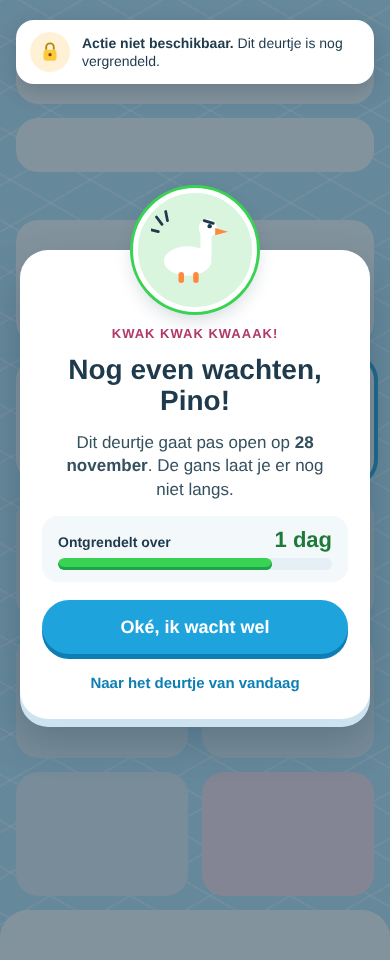
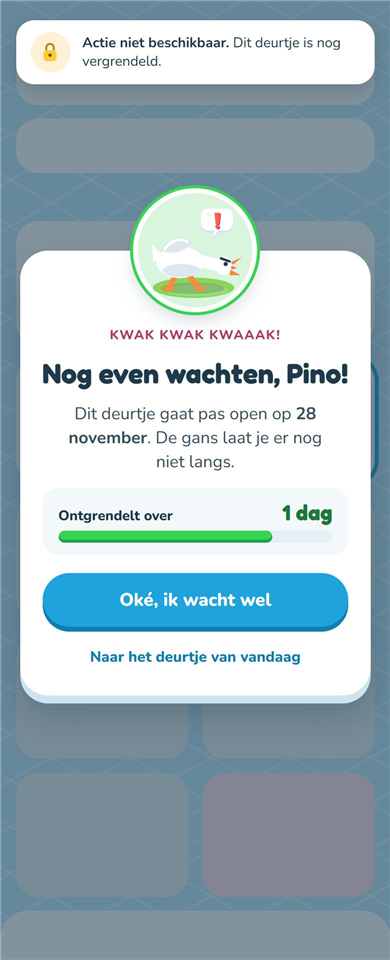
Update locked feedback screen

diff --git a/design/artboards/Vergrendeld.dc.html b/design/artboards/Vergrendeld.dc.html
@@ -52,12 +52,12 @@ a{color:#1E3A4C;text-decoration:none}a:hover{color:#0E7FB5}
 
     <!-- Gans als poortwachter -->
     <div style="width: 124px; height: 124px; border-radius: 50%; background: #D9F5DE; border: 5px solid #FFFFFF; box-shadow: 0 0 0 3px #39D353, 0 8px 18px rgba(30,58,76,0.18); box-sizing: border-box; display: flex; align-items: center; justify-content: center; margin-top: -62px;">
-      <svg class="ic" viewBox="0 0 48 48" width="88" height="88" role="img" aria-label="Gans die de weg verspert">
-        <ellipse cx="20" cy="30" rx="13" ry="8" fill="#FFFFFF"/><rect x="27" y="12" width="6" height="18" rx="3" fill="#FFFFFF"/><circle cx="31" cy="12" r="5" fill="#FFFFFF"/>
-        <path d="M35 12 l7 2 -7 2z" fill="#FF8A3D"/><circle cx="32" cy="11" r="1.2" fill="#1E3A4C"/>
-        <path d="M29 8 l5 1.5" stroke="#1E3A4C" stroke-width="1.5" stroke-linecap="round"/>
-        <rect x="15" y="36" width="3" height="6" rx="1.5" fill="#FF8A3D"/><rect x="23" y="36" width="3" height="6" rx="1.5" fill="#FF8A3D"/>
-        <path d="M6 10 l-3 -4 M9 8 l-1 -5 M4 14 l-4 -1" stroke="#1E3A4C" stroke-width="1.5" stroke-linecap="round"/>
+      <svg class="ic" viewBox="0 0 64 64" width="100" height="100" role="img" aria-label="Boze gans die de weg verspert">
+        <!-- besluit 224: boze gans uit spel 10 (s10-gans-boos) met uitroep-wolkje (bub-wolk + bub-uitroep), met de voeten op het gras -->
+        <ellipse cx="31" cy="56" rx="26" ry="6.5" fill="#8BD35A"/><ellipse cx="33" cy="57.5" rx="20" ry="4" fill="#9ADB7A"/>
+        <svg x="4" y="12" width="58" height="48" viewBox="0 0 48 40"><ellipse cx="22" cy="37" rx="17" ry="3" fill="rgba(30,58,76,0.18)"/><path d="M13 30 l-4 7 M20 30 l5 7" fill="none" stroke="#FF8A3D" stroke-width="3" stroke-linecap="round"/><path d="M6 36 h6 v2 h-6z M23 36 h6 v2 h-6z" fill="#FF8A3D"/><path d="M6 20 l-6 -7 l1 10z" fill="#FFFFFF"/><ellipse cx="15" cy="23" rx="12.5" ry="8.5" fill="#FFFFFF"/><ellipse cx="16" cy="27.5" rx="10" ry="3.5" fill="#DDE7EE"/><path d="M24 22 L37 25" fill="none" stroke="#FFFFFF" stroke-width="6.5" stroke-linecap="round"/><circle cx="38.5" cy="25" r="4.8" fill="#FFFFFF"/><path d="M5 17 q5 -11 17 -5 q-6 8 -17 5z" fill="#DDE7EE"/><path d="M7 16 q5 -7 12 -4" fill="none" stroke="#FFFFFF" stroke-width="1.5" stroke-linecap="round"/><path d="M42 23 l6 -2.5 l-4.5 4z" fill="#FF8A3D"/><path d="M42 27 l5.5 3 h-6z" fill="#FF8A3D"/><path d="M42.5 25 l3 1.2 l-3 0.6z" fill="#FF5E5B"/><circle cx="39.5" cy="24" r="1.1" fill="#1E3A4C"/><path d="M37 21 l4.5 1.6" fill="none" stroke="#1E3A4C" stroke-width="1.3" stroke-linecap="round"/></svg>
+        <svg x="35" y="4" width="22" height="22" viewBox="0 0 32 32"><path d="M8 3.8 h16 a7 7 0 0 1 7 7 v6.4 a7 7 0 0 1 -7 7 h-6.6 l-4.6 6 l0.6 -6 h-5.4 a7 7 0 0 1 -7 -7 v-6.4 a7 7 0 0 1 7 -7z" fill="#CDE4F0"/><path d="M8 2 h16 a7 7 0 0 1 7 7 v6.4 a7 7 0 0 1 -7 7 h-6.6 l-4.6 6 l0.6 -6 h-5.4 a7 7 0 0 1 -7 -7 v-6.4 a7 7 0 0 1 7 -7z" fill="#FFFFFF"/><ellipse cx="8.6" cy="7.4" rx="2.6" ry="1.5" fill="#EAF6FD"/></svg>
+        <svg x="35" y="4" width="22" height="22" viewBox="0 0 32 32"><path d="M14.4 6.4 h4 l-0.9 9.4 h-2.2z" fill="#C43B38" transform="translate(0.7 0.7)" stroke="#C43B38" stroke-width="1.2" stroke-linejoin="round"/><circle cx="17.1" cy="19.4" r="1.9" fill="#C43B38"/><path d="M14.4 6.4 h4 l-0.9 9.4 h-2.2z" fill="#FF5E5B" stroke="#FF5E5B" stroke-width="1.2" stroke-linejoin="round"/><circle cx="16.4" cy="18.7" r="1.9" fill="#FF5E5B"/></svg>
       </svg>
     </div>
 

diff --git a/advent/js/kalender.js b/advent/js/kalender.js
@@ -216,6 +216,21 @@ function zwaaiOpen(deur, verder) {
 
 /* ---------- Vergrendeld ---------- */
 
+/**
+ * De gans als poortwachter (besluit 224): de boze gans uit spel 10 (s10-gans-boos) met het rode uitroep-wolkje van de
+ * beeldfeedback (bub-wolk + bub-uitroep), met zijn voeten op een grasveldje. viewBox 64×64, getekend in de bol van 124 px.
+ * De voeten van s10-gans-boos staan op y 37 van 40; bij schaal 1,2 en y 12 is dat y 56,4: het midden van het gras.
+ */
+function gansWacht() {
+  return el('svg', { viewBox: '0 0 64 64', width: 100, height: 100, class: 'ic', role: 'img', 'aria-label': 'Boze gans die de weg verspert' }, [
+    el('ellipse', { cx: 31, cy: 56, rx: 26, ry: 6.5, fill: '#8BD35A' }),
+    el('ellipse', { cx: 33, cy: 57.5, rx: 20, ry: 4, fill: '#9ADB7A' }),
+    use('s10-gans-boos', 4, 12, 58, 48),
+    use('bub-wolk', 35, 4, 22, 22),
+    use('bub-uitroep', 35, 4, 22, 22),
+  ]);
+}
+
 export function toonVergrendeld(n) {
   const nu = datum.vandaag();
   const vandaagDag = datum.dagVanVandaag(nu);
@@ -229,7 +244,7 @@ export function toonVergrendeld(n) {
     label: 'Dit deurtje is nog vergrendeld',
     melding: { icoon: 'slot', kleur: '#FFF1D6', html: '<strong>Actie niet beschikbaar.</strong> Dit deurtje is nog vergrendeld.' },
     inhoud: [
-      h('div', { class: 'dialoog-bol', style: { background: '#D9F5DE' } }, [icoon('gans', 88, { label: 'Gans die de weg verspert' })]),
+      h('div', { class: 'dialoog-bol', style: { background: '#D9F5DE' } }, [gansWacht()]),
       h('div', { class: 'dialoog-sub', style: { color: 'var(--roze-schaduw)' } }, 'KWAK KWAK KWAAAK!'),
       h('h2', { class: 'kop dialoog-titel' }, 'Nog even wachten, Pino!'),
       h('p', { class: 'dialoog-tekst', html: `Dit deurtje gaat pas open op <strong>${datum.langeDatum(n)}</strong>. De gans laat je er nog niet langs.` }),

diff --git a/advent/js/ui/iconen.js b/advent/js/ui/iconen.js
@@ -34,7 +34,6 @@ const PADEN = {
   deur: '<rect x="8" y="6" width="32" height="36" rx="5" fill="#0E3D1C"/><rect x="14" y="12" width="20" height="24" rx="3" fill="#39D353"/><circle cx="29" cy="24" r="2.5" fill="#0E3D1C"/>',
   speel: '<path d="M14 8 L40 24 L14 40z" fill="currentColor"/>',
   telefoon: '<path d="M14 6 h8 l4 10 -6 4 c2 6 6 10 12 12 l4 -6 10 4 v8 c0 2 -2 4 -4 4 C22 42 6 26 6 10 c0 -2 2 -4 4 -4z" fill="currentColor"/>',
-  gans: '<ellipse cx="20" cy="30" rx="13" ry="8" fill="#FFFFFF"/><rect x="27" y="12" width="6" height="18" rx="3" fill="#FFFFFF"/><circle cx="31" cy="12" r="5" fill="#FFFFFF"/><path d="M35 12 l7 2 -7 2z" fill="#FF8A3D"/><circle cx="32" cy="11" r="1.2" fill="#1E3A4C"/><path d="M29 8 l5 1.5" stroke="#1E3A4C" stroke-width="1.5" stroke-linecap="round"/><rect x="15" y="36" width="3" height="6" rx="1.5" fill="#FF8A3D"/><rect x="23" y="36" width="3" height="6" rx="1.5" fill="#FF8A3D"/><path d="M6 10 l-3 -4 M9 8 l-1 -5 M4 14 l-4 -1" stroke="#1E3A4C" stroke-width="1.5" stroke-linecap="round"/>',
   gansKlein: '<ellipse cx="20" cy="30" rx="13" ry="8" fill="#FFFFFF"/><rect x="27" y="12" width="6" height="18" rx="3" fill="#FFFFFF"/><circle cx="31" cy="12" r="5" fill="#FFFFFF"/><path d="M35 12 l7 2 -7 2z" fill="#FF8A3D"/><circle cx="32" cy="11" r="1.2" fill="#1E3A4C"/>',
   lamp: '<path d="M24 6 a12 12 0 0 1 7 21.7 V32 H17 v-4.3 A12 12 0 0 1 24 6z" fill="#FFC93C"/><rect x="18" y="34" width="12" height="4" rx="2" fill="#9A5B00"/><rect x="20" y="39" width="8" height="3" rx="1.5" fill="#9A5B00"/>',
   vink: '<path d="M10 26 L20 36 L38 14" fill="none" stroke="#1F7A3A" stroke-width="7" stroke-linecap="round" stroke-linejoin="round"/>',

diff --git a/specs/besluiten.md b/specs/besluiten.md
@@ -236,6 +236,7 @@ Keuzes die niet (eenduidig) in het ontwerp staan. **Te bevestigen** = door mij g
 | 221 | 2026-11-23 | Spel 1: vaker gapen vanaf dag 2 | Zo levert een ronde meer tegels voor spel 2 op. Vanaf dag 2 (deurtje 2 open; in testmodus altijd) is de tijd tussen kinderen die wakker worden × 0,7 (4,0 → 2,8 s aan het begin, 2,2 → 1,54 s aan het eind), gaapt een wakker kind met kans 0,9 (was 0,7) en mag er één kind meer tegelijk wakker of gapend zijn (3, daarna 4). Op dag 1 blijft alles zoals het was. Gesimuleerd: ± 23 gapen per ronde van 60 s tegen ± 13 op dag 1 (`DRUK` in `spel1.js`) | besloten (Benjamin); goedgekeurd (23 november) |
 | 222 | 2026-11-23 | Laadscherm iets langzamer | Zodat de tip en de laadzinnen rustig te lezen zijn (vervolg op #199): vier laadzinnen van 1,5 s (was 1,25 s) en 0,8 s "Klaar!" (was 0,6 s), samen ± 6,8 s (gemeten 6,9 s); bij een al gespeeld spel drie zinnen van 1,3 s (was 1,1 s), ± 4,7 s | besloten (Benjamin); goedgekeurd (23 november) |
 | 223 | 2026-11-23 | Mijn Kamer: tegels als speelgoed rond het kleed | De tegels stonden als groot honingraatblok rechtop vooraan rechts, recht van voren en zonder schaduw; ze leken meer op knoppen dan op spullen. Gekozen uit vier voorstellen (tegelkist, speelveld op de vloer, tableau aan de muur, speelgoed rond het kleed; voorstelblad, daarna weggehaald): **D**. Elk tegeltype is een los stapeltje platte tegels in driekwartaanzicht (`hx-tegel` 26 px, verticaal × 0,5) met een zachte schaduw, verspreid over de vloer rond het kleed op een vaste plek per type; tot drie hoog, tikvlak 36 × 32, zelfde tekst in het wolkje. In `kamer.js` en in `kamer_sprites.py`/`kamer_build.py` (artboards opnieuw gemaakt) | besloten (Benjamin: D); goedgekeurd (23 november) |
+| 224 | 2026-11-23 | Vergrendeld: nieuwe illustratie van de gans | Benjamin: de illustratie in het scherm "Nog even wachten, Pino!" was oud (het eenvoudige gans-icoon uit het eerste ontwerp). Nu de **boze gans uit spel 10** (`s10-gans-boos`: hals gestrekt, snavel open, vleugel omhoog) met zijn voeten op een grasveldje en het **rode uitroep-wolkje** van de beeldfeedback (`bub-wolk` + `bub-uitroep`) boven zijn kop, zodat "KWAK KWAK KWAAAK!" en "de gans laat je er nog niet langs" te zien zijn. Een eerste versie had ook een gesloten deurtje met slotje op de achtergrond; dat is op verzoek van Benjamin weggehaald. `gansWacht()` in `kalender.js`; artboard `Vergrendeld.dc.html` en preview bijgewerkt. Het oude icoon `gans` is uit `ui/iconen.js` verwijderd (`gansKlein` van de beller blijft). De melding bovenin houdt het slot-icoon van de kalender | besloten (Benjamin: vernieuwen); uitwerking door Claude |
 
 ## Open vragen voor Benjamin (uit de ontwerpdocumenten)
 

diff --git a/specs/events.md b/specs/events.md
@@ -26,7 +26,7 @@ De Sims-momenten rondom de spellen. Alles behalve het resultaatscherm is gebouwd
 
 ## Vergrendeld (`Vergrendeld.png`)
 
-Melding bovenin: slot-icoon (geel bolletje) "**Actie niet beschikbaar.** Dit deurtje is nog vergrendeld." Dialoog (top 250 px op mobiel, gecentreerd op desktop): gansbol 124 px (`#D9F5DE`, ring groen) · "KWAK KWAK KWAAAK!" (roze) · **Nog even wachten, Pino!** · "Dit deurtje gaat pas open op **28 november**. De gans laat je er nog niet langs." · vak "Ontgrendelt over" + "**1 dag**" (Fredoka 22 groen) + groene balk (breedte `100 − dagen × 22`, min 8 %) · knop **Oké, ik wacht wel** (teal pil) · link **Naar het deurtje van vandaag** (alleen als er een deurtje van vandaag is).
+Melding bovenin: slot-icoon (geel bolletje) "**Actie niet beschikbaar.** Dit deurtje is nog vergrendeld." Dialoog (top 250 px op mobiel, gecentreerd op desktop): gansbol 124 px (`#D9F5DE`, ring groen) met de gans als poortwachter (besluit 224): de boze gans uit spel 10 (`s10-gans-boos`) met zijn voeten op een grasveldje en het rode uitroep-wolkje (`bub-wolk` + `bub-uitroep`) boven zijn kop; `gansWacht()` in `kalender.js`, viewBox 64×64, 100 px · "KWAK KWAK KWAAAK!" (roze) · **Nog even wachten, Pino!** · "Dit deurtje gaat pas open op **28 november**. De gans laat je er nog niet langs." · vak "Ontgrendelt over" + "**1 dag**" (Fredoka 22 groen) + groene balk (breedte `100 − dagen × 22`, min 8 %) · knop **Oké, ik wacht wel** (teal pil) · link **Naar het deurtje van vandaag** (alleen als er een deurtje van vandaag is).
 
 ## Briefje
 
